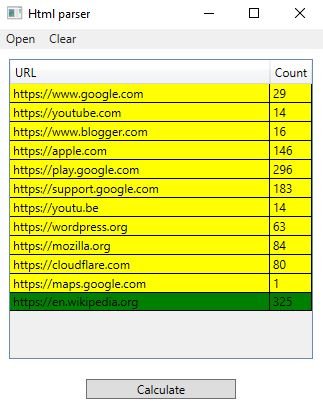
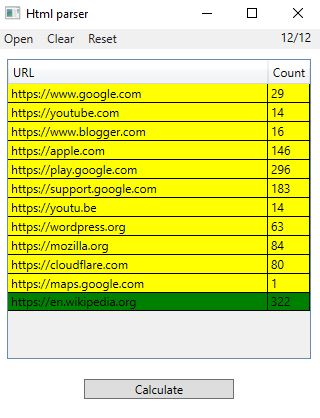
Added Parallel.ForEach and ResetCommand

diff --git a/HtmlParser/MainWindow.xaml b/HtmlParser/MainWindow.xaml
@@ -29,7 +29,17 @@
         <Menu Grid.Row="0" Grid.Column="0" Grid.ColumnSpan="3">
             <MenuItem Header="Open" Command="{Binding OpenCommand}"/>
             <MenuItem Header="Clear" Command="{Binding ClearCommand}"/>
+            <MenuItem Header="Reset" Command="{Binding ResetCommand}"/>
         </Menu>
+        <TextBlock Grid.Row="0" Grid.Column="1" HorizontalAlignment="Right">
+            <TextBlock.Text>
+                <MultiBinding StringFormat="{}{0}/{1}">
+                    <Binding Path="CurrentCount" />
+                    <Binding Path="UrlCollection.Count" />
+                </MultiBinding>
+            </TextBlock.Text>
+        </TextBlock>
+
         <DataGrid Grid.Row="2" Grid.Column="1" ItemsSource="{Binding UrlCollection}" AutoGenerateColumns="False" HeadersVisibility="Column" 
                   IsReadOnly="True" HorizontalAlignment="Stretch">
             <DataGrid.Columns>

diff --git a/HtmlParser/ViewModel.cs b/HtmlParser/ViewModel.cs
@@ -21,9 +21,11 @@ namespace HtmlParser
 
         public AsyncRelayCommand OpenCommand { get;}
         public RelayCommand ClearCommand { get; }
+        public RelayCommand ResetCommand { get; }
         public AsyncRelayCommand CalculateCommand { get; }
         public ObservableCollection<Model> UrlCollection { get; private set; }
         public Model MaxElement { get; private set; }
+        public int CurrentCount { get; private set; }
         public string CalculateButtonContent => _isCalculating ? "Stop" : "Calculate";
 
         public ViewModel()
@@ -32,10 +34,19 @@ namespace HtmlParser
 
             OpenCommand = new AsyncRelayCommand(OpenMethodAsync, ()=>!_isCalculating);
             ClearCommand = new RelayCommand(ClearMethod, () => CanExecute() && !_isCalculating);
+            ResetCommand = new RelayCommand(ResetMethod, () => CanExecute() && !_isCalculating);
             CalculateCommand = new AsyncRelayCommand(CalculateMethod, CanExecute);
         }
 
         private bool CanExecute() => UrlCollection is { Count: > 0 };
+
+        private void ResetMethod()
+        {
+            CurrentCount = 0;
+            foreach (var item in UrlCollection)
+                item.ResetData();
+            NotifyCanExecuteChangedCommands();
+        }
 
         private async Task OpenMethodAsync()
         {
@@ -43,14 +54,15 @@ namespace HtmlParser
             {
                 InitialDirectory = Environment.CurrentDirectory,
                 Filter = "Txt files (*.txt)|*.txt",
-                Title = "Open file"
+                Title = "Open file",
+                RestoreDirectory = true
             };
             if (openFileDialog.ShowDialog() == true)
             {
+                CurrentCount = 0;
                 var lines = await File.ReadAllLinesAsync(openFileDialog.FileName);
                 GetUrlCollection(lines);
-                CalculateCommand.NotifyCanExecuteChanged();
-                ClearCommand.NotifyCanExecuteChanged();
+                NotifyCanExecuteChangedCommands();
             }
         }
 
@@ -68,12 +80,21 @@ namespace HtmlParser
             UrlCollection.Clear();
             CalculateCommand.NotifyCanExecuteChanged();
             ClearCommand.NotifyCanExecuteChanged();
+            ResetCommand.NotifyCanExecuteChanged();
+            CurrentCount = 0;
         }
 
         private void NotifyCanExecuteChangedCommands()
         {
             OpenCommand.NotifyCanExecuteChanged();
             ClearCommand.NotifyCanExecuteChanged();
+            ResetCommand.NotifyCanExecuteChanged();
+            CalculateCommand.NotifyCanExecuteChanged();
+        }
+
+        private void NotifyCanExecuteChangedCommandsButton()
+        {
+            NotifyCanExecuteChangedCommands();
             OnPropertyChanged(nameof(CalculateButtonContent));
         }
 
@@ -82,7 +103,7 @@ namespace HtmlParser
             if (!_isCalculating)
             {
                 _isCalculating = true;
-                NotifyCanExecuteChangedCommands();
+                NotifyCanExecuteChangedCommandsButton();
                 _tokenSource = new CancellationTokenSource();
                 try
                 {
@@ -99,17 +120,21 @@ namespace HtmlParser
 
             MaxElement = UrlCollection.MaxBy(item => item.Count)!;
             _isCalculating = false;
-            NotifyCanExecuteChangedCommands();
+            NotifyCanExecuteChangedCommandsButton();
         }
 
         private void CalculateTags()
         {
-            using var client = new WebClient();
-            foreach (var item in UrlCollection)
+            Parallel.ForEach(UrlCollection, (item, loopState) =>
             {
+                using var client = new WebClient();
                 if (_tokenSource.Token.IsCancellationRequested)
+                {
                     _tokenSource.Token.ThrowIfCancellationRequested();
-                if (item.IsCalculated) continue;
+                    loopState.Break();
+                }
+
+                if (item.IsCalculated) return;
                 string htmlCode;
                 try
                 {
@@ -118,10 +143,11 @@ namespace HtmlParser
                 catch (WebException)
                 {
                     _errorModelsList.Add(item);
-                    continue;
+                    return;
                 }
+                CurrentCount++;
                 item.SetData(htmlCode);
-            }
+            });
         }
 
         private void CheckErrors()

diff --git a/HtmlParser/Model.cs b/HtmlParser/Model.cs
@@ -19,5 +19,11 @@ namespace HtmlParser
             Count = Regex.Matches(input, "</a>").Count;
             IsCalculated = true;
         }
+
+        public void ResetData()
+        {
+            Count = 0;
+            IsCalculated = false;
+        }
     }
 }
